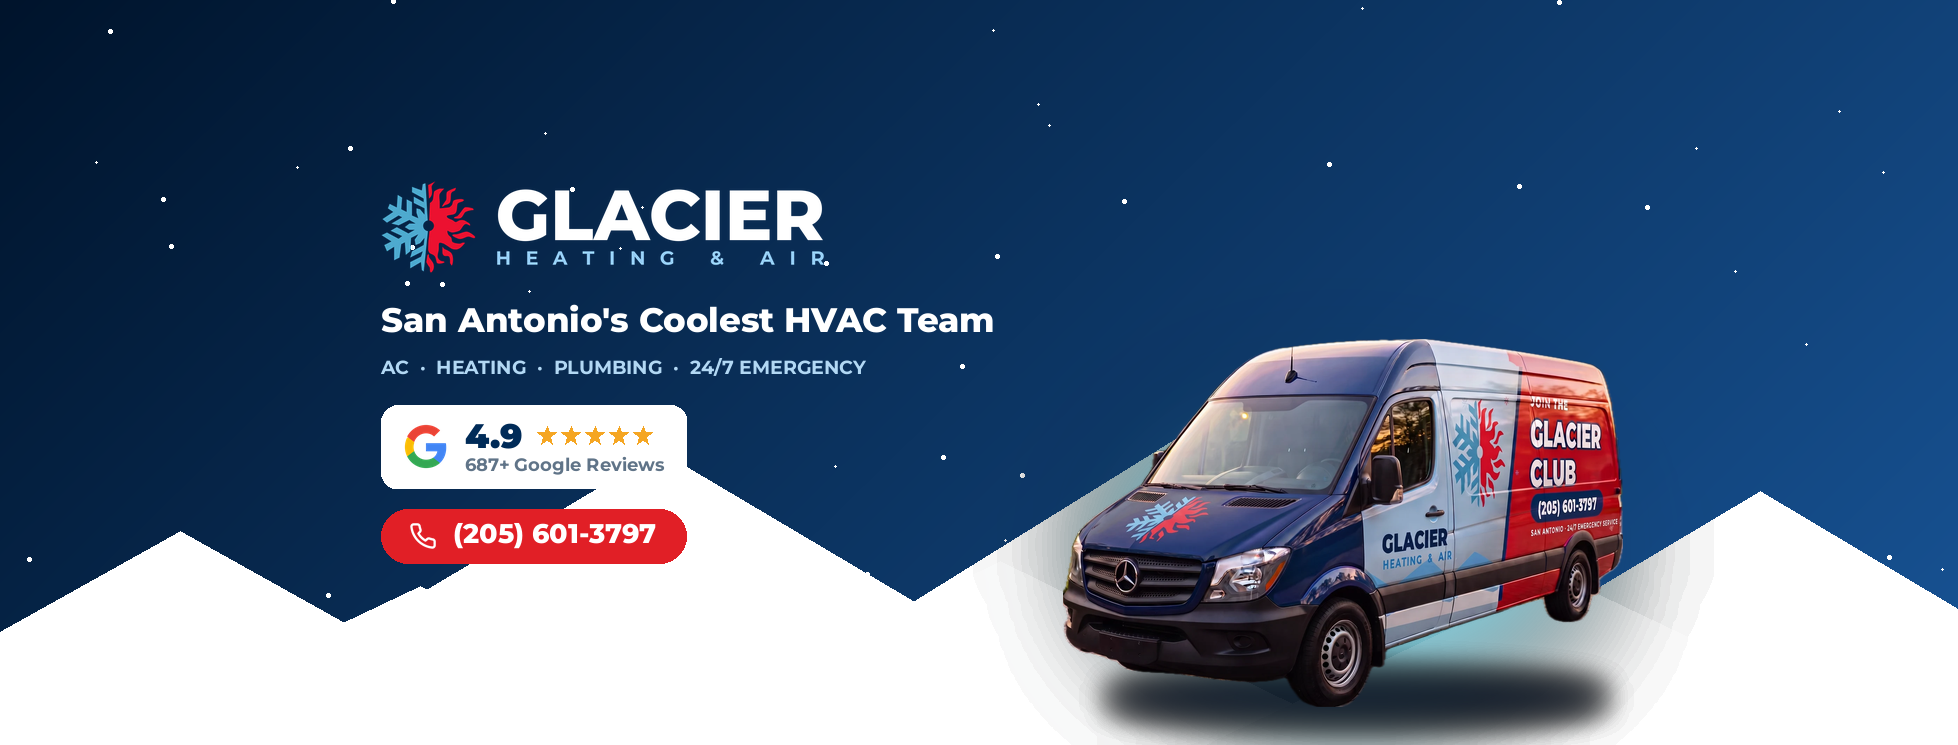
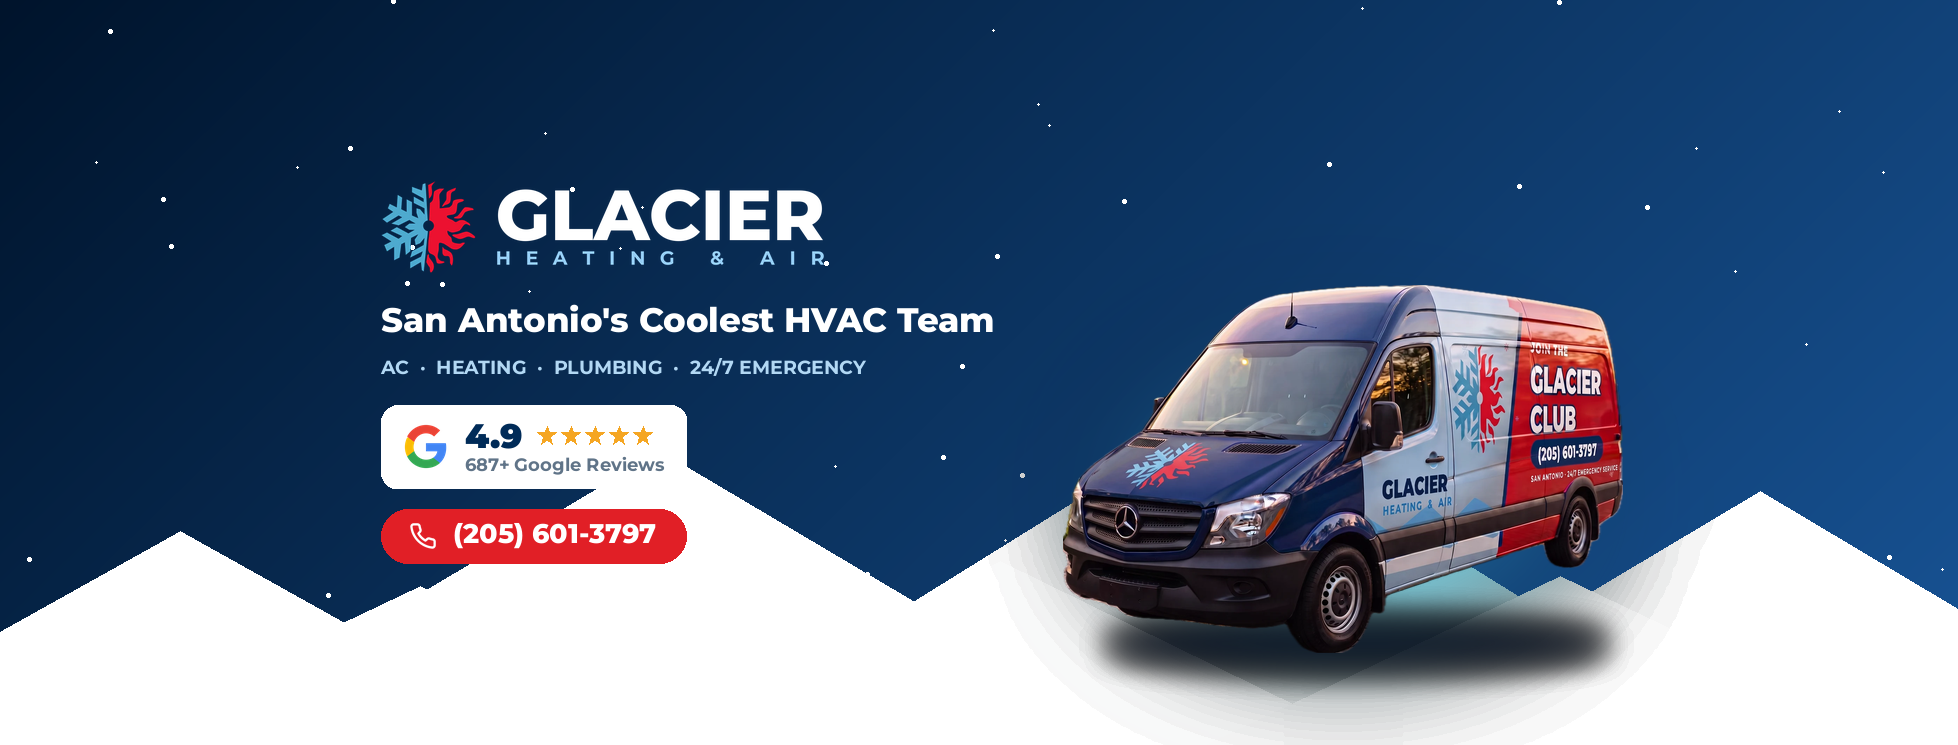
FB cover: raise van 54px to balance with content stack

Changed region(s): [[0.5296, 0.3705, 0.8412, 1.0]]

diff --git a/glacier-site/scratchpad/make_fb_cover.py b/glacier-site/scratchpad/make_fb_cover.py
@@ -51,7 +51,7 @@ def star(cx,cy,r,fill):
 van=Image.open("public/van.webp").convert("RGBA")
 VW=560; VH=int(van.height*VW/van.width)
 van=van.resize((VW,VH),Image.LANCZOS)
-vx=MX1-VW-18; vy=H-VH-38
+vx=MX1-VW-18; vy=H-VH-92
 glow=Image.new("RGBA",(W,H),(0,0,0,0)); gd=ImageDraw.Draw(glow)
 gd.ellipse([vx+40,vy+50,vx+VW-40,vy+VH-8],fill=(72,202,228,60))
 glow=glow.filter(ImageFilter.GaussianBlur(60))
